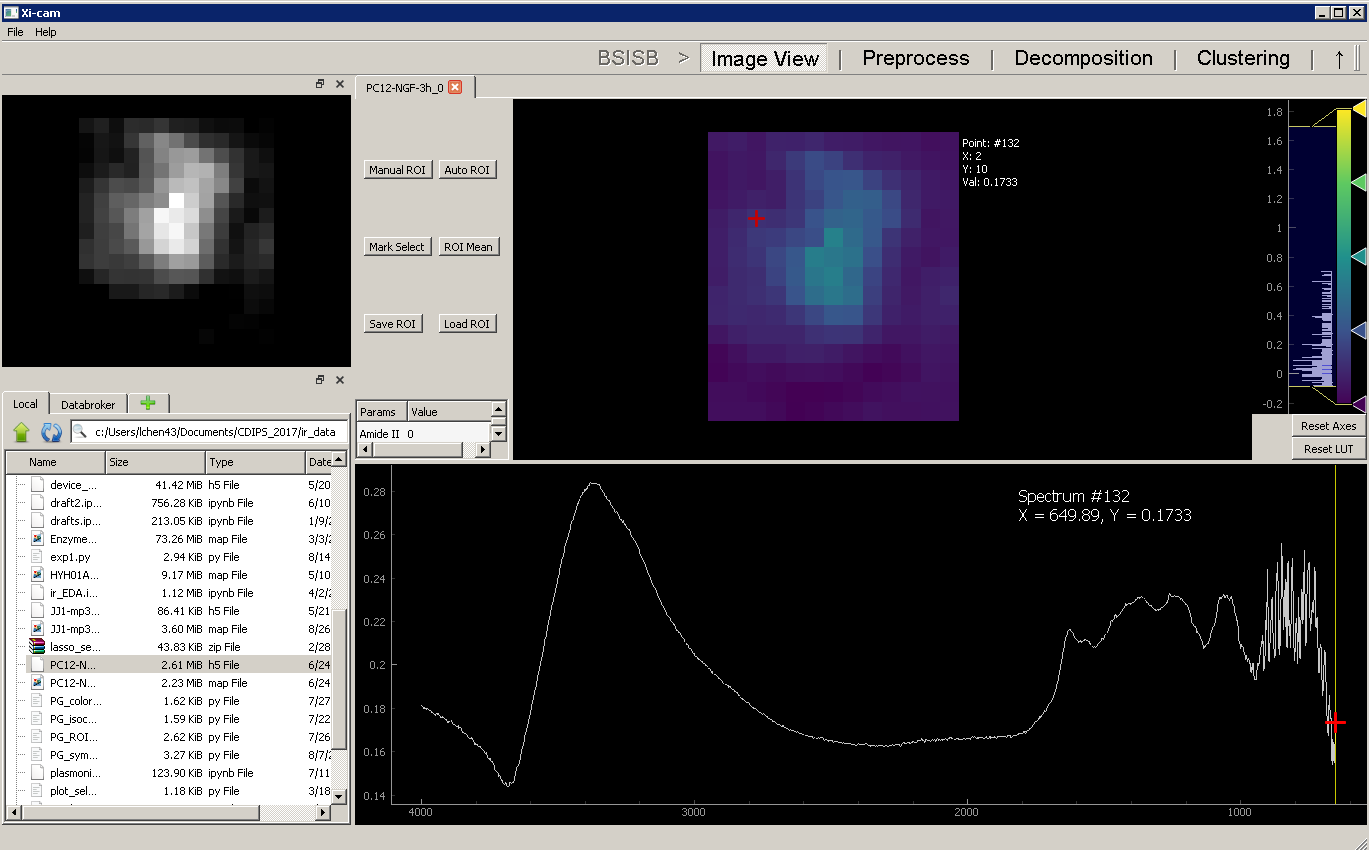
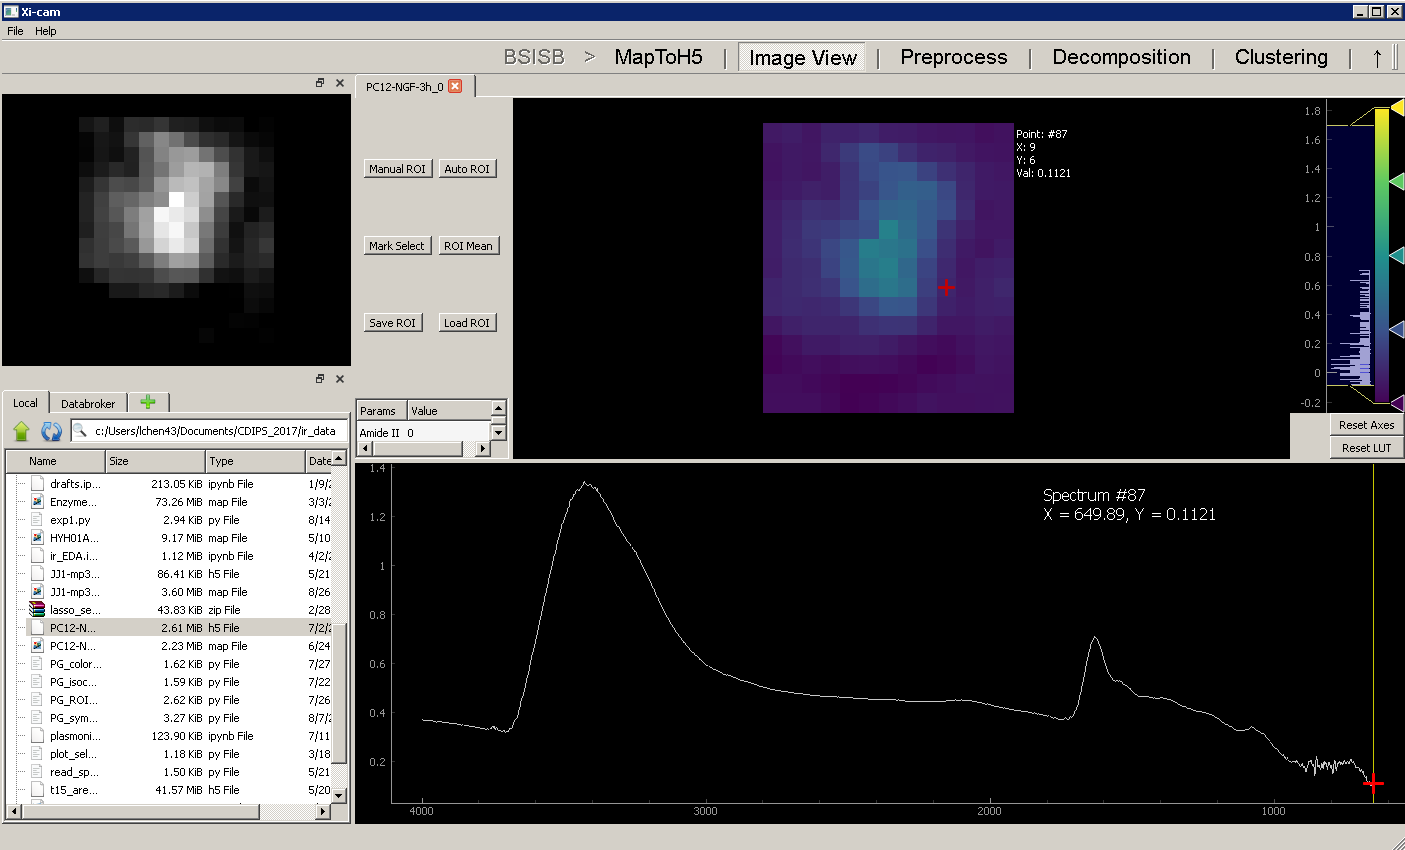
update example.png

diff --git a/xicam/BSISB/__init__.py b/xicam/BSISB/__init__.py
@@ -51,7 +51,7 @@ class BSISB(GUIPlugin):
         self.imageview = BSISBTabview(self.headermodel, self.selectionmodel, MapView, 'image')
         self.imageview.currentChanged.connect(self.updateTab)
 
-        self.stages = {#"MapToH5": GUILayout(self.mapToH5),
+        self.stages = {"MapToH5": GUILayout(self.mapToH5),
                        "Image View": GUILayout(self.imageview),
                        "Preprocess": GUILayout(self.preprocess),
                        "Decomposition": GUILayout(self.FA_widget),
